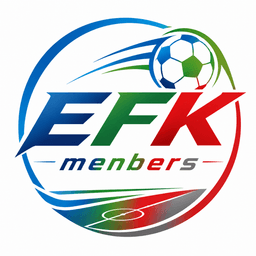
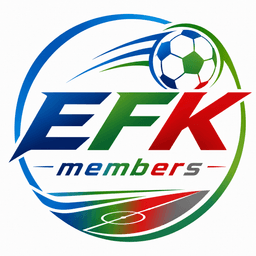
ロゴを修正版(スペル修正)に差し替え、ヘッダーのアイコンを見やすく調整
「menbers」の表記ミスを「members」に修正した新しいロゴ画像に
差し替え。あわせてヘッダーのアイコンサイズを32px→40pxに拡大。

Claude-Session: https://claude.ai/code/session_01N4o7QjmuMeQBCg8gtHi5fQ

Changed region(s): [[0.0312, 0.0312, 1.0, 0.9688], [0.375, 0.5, 0.4062, 0.5312]]

diff --git a/src/components/AppShell.tsx b/src/components/AppShell.tsx
@@ -19,12 +19,12 @@ export default function AppShell({
             <Link href="/dashboard" className="flex items-center gap-2">
               <Image
                 src="/logo.png"
-                alt="EFK menbers"
-                width={32}
-                height={32}
+                alt="EFK members"
+                width={40}
+                height={40}
                 className="rounded-full"
               />
-              <span className="font-bold text-gray-900">EFK menbers</span>
+              <span className="font-bold text-gray-900">EFK members</span>
             </Link>
             <nav className="flex gap-4 text-sm text-gray-600">
               <Link href="/dashboard" className="hover:text-emerald-600">

diff --git a/src/components/AuthCard.tsx b/src/components/AuthCard.tsx
@@ -13,7 +13,7 @@ export default function AuthCard({
     <div className="flex min-h-screen items-center justify-center bg-gray-50 px-4 py-10">
       <div className="w-full max-w-md rounded-xl border border-gray-200 bg-white p-8 shadow-sm">
         <div className="flex justify-center">
-          <Image src="/logo.png" alt="EFK menbers" width={72} height={72} priority />
+          <Image src="/logo.png" alt="EFK members" width={72} height={72} priority />
         </div>
         <h1 className="mt-4 text-center text-xl font-bold text-gray-900">{title}</h1>
         {subtitle && (

diff --git a/src/app/layout.tsx b/src/app/layout.tsx
@@ -13,7 +13,7 @@ const geistMono = Geist_Mono({
 });
 
 export const metadata: Metadata = {
-  title: "EFK menbers",
+  title: "EFK members",
   description: "スケジュール・出欠・メッセージを一元管理",
 };
 
